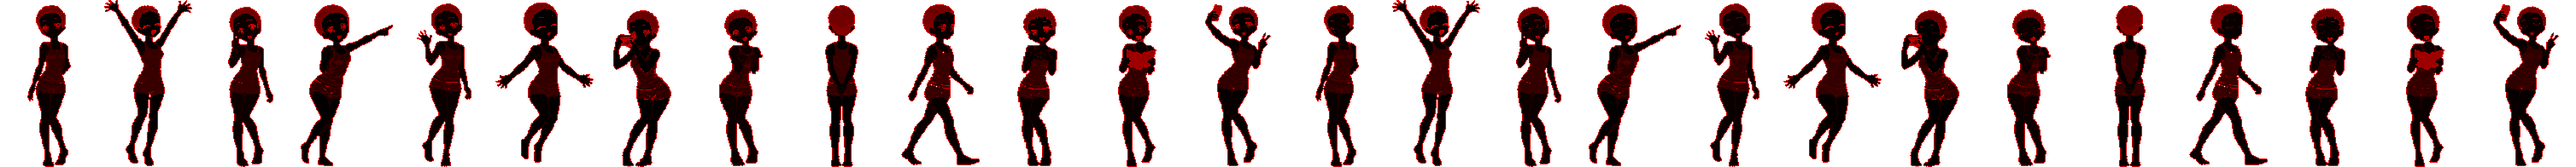
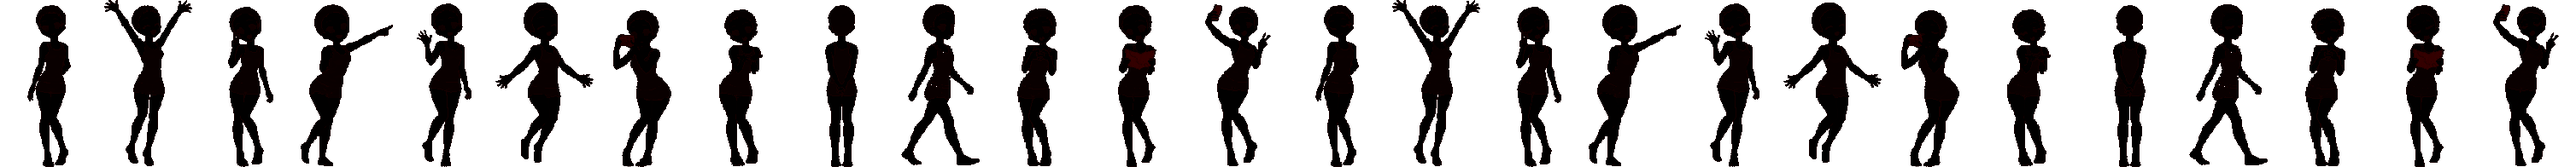
キャラ1のベースを決まった21色で描き直す：肌・髪・服・目の色がその部位だけきれいに変わる、まゆ毛は髪の色に合わせる、線・まつ毛・口は変えない（v0.10.13）

diff --git a/app/js/characolor.js b/app/js/characolor.js
@@ -36,9 +36,10 @@ function hsl2rgb([h, s, l]) {
 // D：その名所の data.json。c：元の色、i：色番号。colors：{ skin:'#rrggbb', ... }（選んでいない部位は元のまま）
 export function recolorChara(c, i, D, colors = charaColors()) {
   const R = D.charaRegions, F = D.charaRef; if (!R || !F) return c;
-  for (const k of ['skin', 'cloth', 'eye', 'hair']) {
-    const r = R[k]; if (!r || i < r[0] || i > r[1] || !colors[k] || !F[k]) continue;
-    const o = rgb2hsl(c), ref = rgb2hsl(F[k]), t = rgb2hsl(hex2rgb(colors[k]));
+  for (const k of ['skin', 'cloth', 'eye', 'hair', 'brow']) {
+    const ck = k === 'brow' ? 'hair' : k;          // まゆ毛は髪の色に合わせる
+    const r = R[k]; if (!r || i < r[0] || i > r[1] || !colors[ck] || !F[k]) continue;
+    const o = rgb2hsl(c), ref = rgb2hsl(F[k]), t = rgb2hsl(hex2rgb(colors[ck]));
     const s = Math.max(0, Math.min(1, ref[1] > .15 && ref[2] < .85 ? o[1] * t[1] / ref[1] : t[1]));
     // 明るさは「基準の色（いちばん多い色）→ 選んだ色」に合わせて、影は同じ割合で暗く、光は同じ割合で明るく（明暗の順番を変えない）
     const rl = Math.min(.98, Math.max(.02, ref[2]));

diff --git a/app/sw.js b/app/sw.js
@@ -1,6 +1,6 @@
 // オフライン対応：アプリ本体と絵を端末に保存して、電波がなくても開けるようにする
 // 版を上げるときは VERSION を変える（古い保存は消える）
-const VERSION = 'tabiquest-v0.10.12';
+const VERSION = 'tabiquest-v0.10.13';
 const CORE = [
   './', 'index.html', 'manifest.json', 'css/app.css', 'vendor/three.r128.min.js',
   'js/main.js', 'js/card.js', 'js/places.js', 'js/photo_places.js', 'js/plain_places.js', 'js/store.js', 'js/geo.js', 'js/conditions.js', 'js/ui.js', 'js/arrival.js', 'js/zukan.js', 'js/debug.js',

diff --git a/app/js/main.js b/app/js/main.js
@@ -18,7 +18,7 @@ import * as chukagai from './scenes/chukagai.js';
 import * as kamakura from './scenes/kamakura.js';
 import * as photo from './scenes/photo.js';
 
-export const VERSION = '0.10.12';
+export const VERSION = '0.10.13';
 engine.register('minatomirai', minatomirai.build);
 engine.register('chukagai', chukagai.build);
 engine.register('kamakura', kamakura.build);
